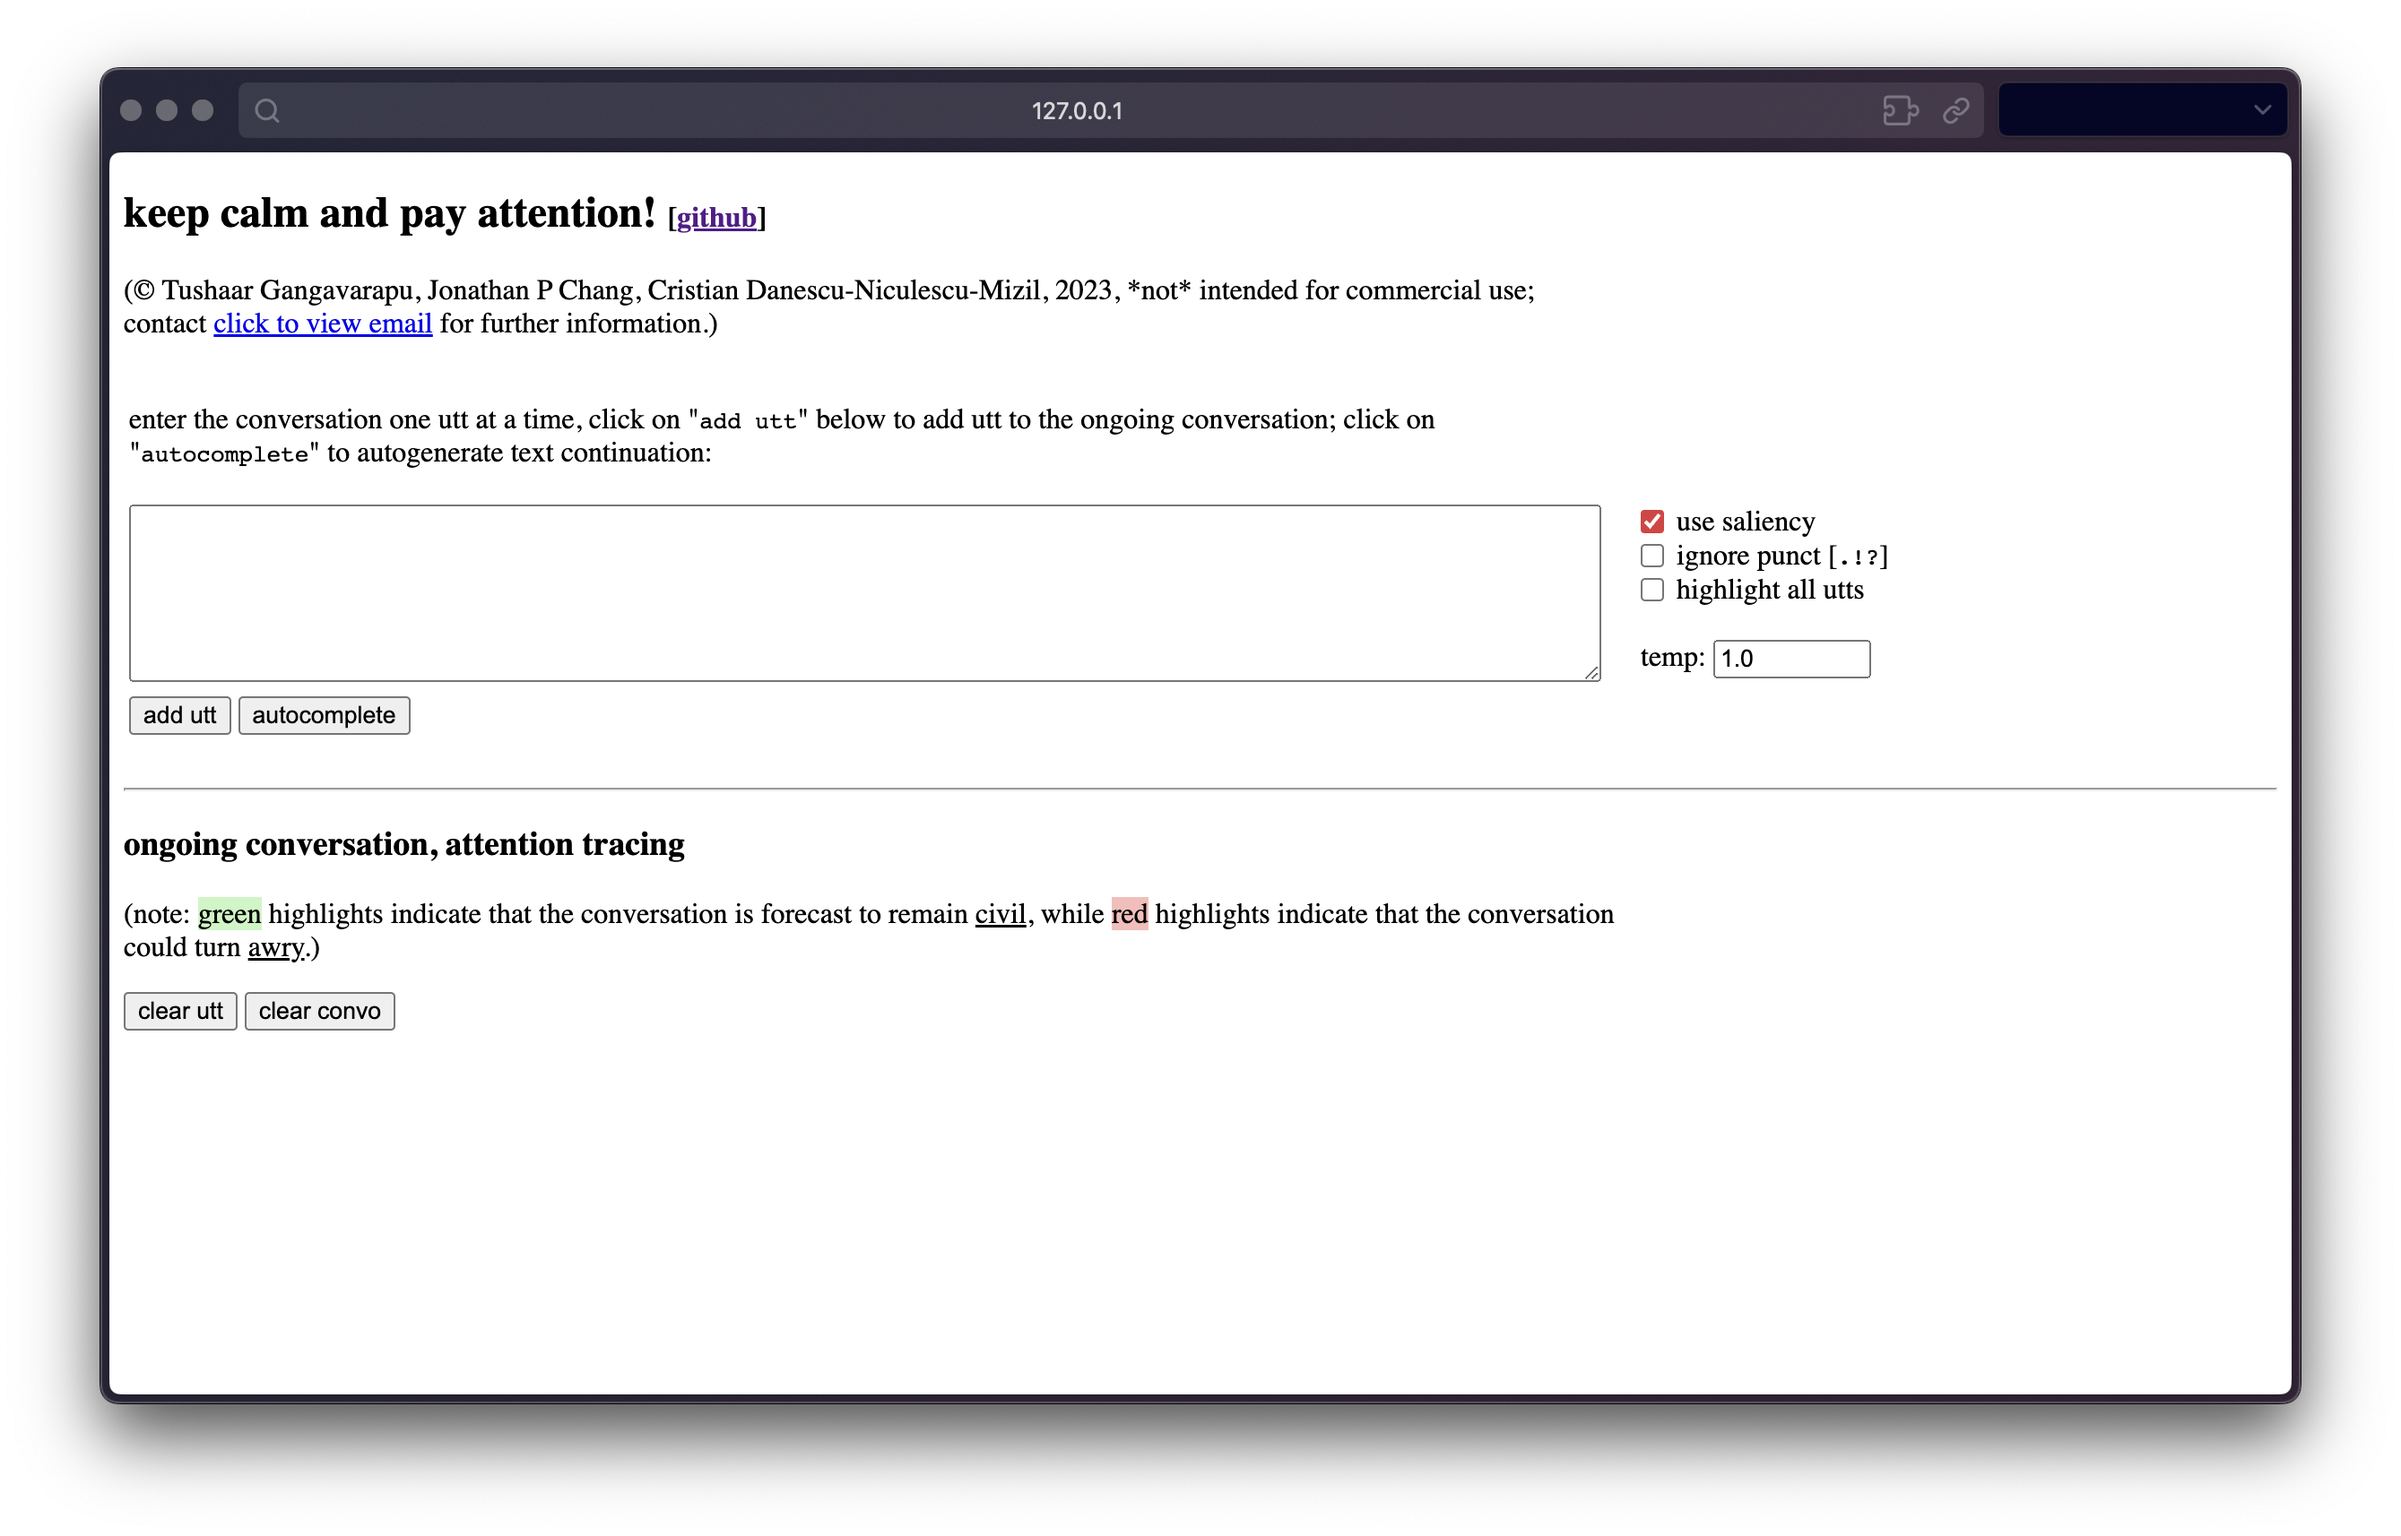
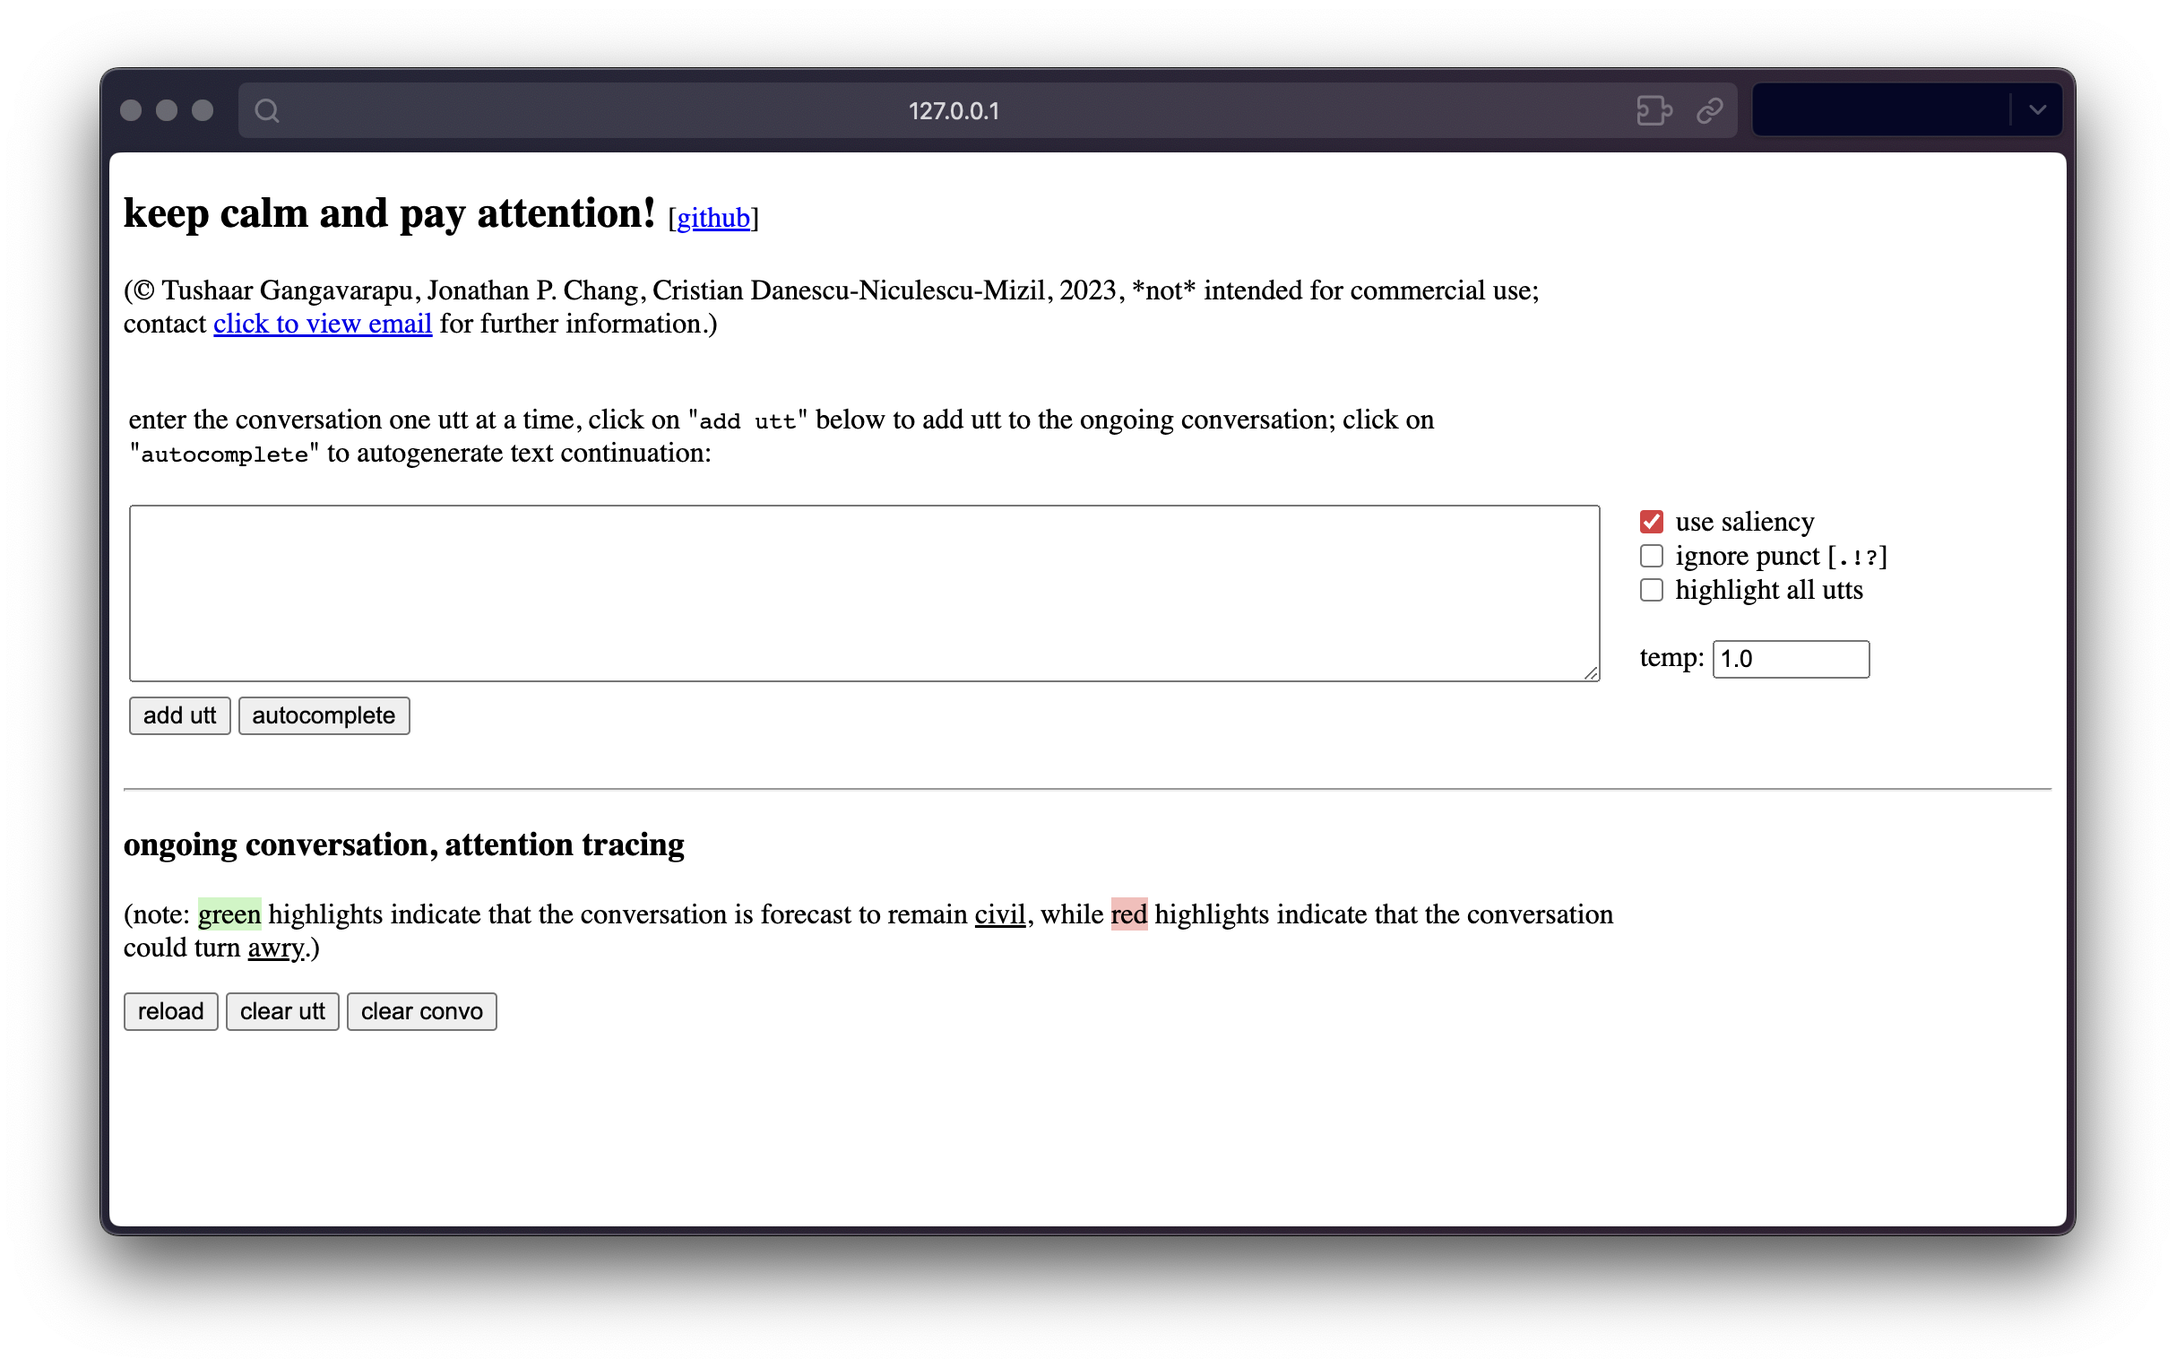
add app install readme

diff --git a/visualization/templates/home.html b/visualization/templates/home.html
@@ -8,11 +8,11 @@ keep calm and pay attention
 <body>
 <h2>
     keep calm and pay attention!
-    <small>[<a href="https://github.com/CornellNLP/craft-experiments">github</a>]</small>
+    <span class="not-bold"><small>[<a href="https://github.com/CornellNLP/craft-experiments">github</a>]</small></span>
 </h2>
 
 <p>
-    (&#169; Tushaar Gangavarapu, Jonathan P Chang, Cristian Danescu-Niculescu-Mizil, 2023, *not* intended for
+    (&#169; Tushaar Gangavarapu, Jonathan P. Chang, Cristian Danescu-Niculescu-Mizil, 2023, *not* intended for
     commercial use; contact <span id="email"><a href="javascript:show_email()">click to view email</a></span> for
     further information.)
 </p>
@@ -63,6 +63,7 @@ keep calm and pay attention
 </p>
 
 <p id="content"></p>
+<button onclick="reload();">reload</button>
 <button onclick="clear_utt();">clear utt</button>
 <button onclick="clear_convo_confirm();">clear convo</button>
 
@@ -79,6 +80,10 @@ keep calm and pay attention
         utt = document.getElementById('utt').value
         convo.push(utt)
         document.getElementById('utt').value = ""
+        get_attention_scores()
+    }
+
+    function reload() {
         get_attention_scores()
     }
 

diff --git a/visualization/templates/base.html b/visualization/templates/base.html
@@ -51,6 +51,10 @@
             background-color: rgba(0, 0, 255, var(--attention));
         }
 
+        span.not-bold {
+            font-weight: normal
+        }
+
         br {
             --attention: 0;
         }
